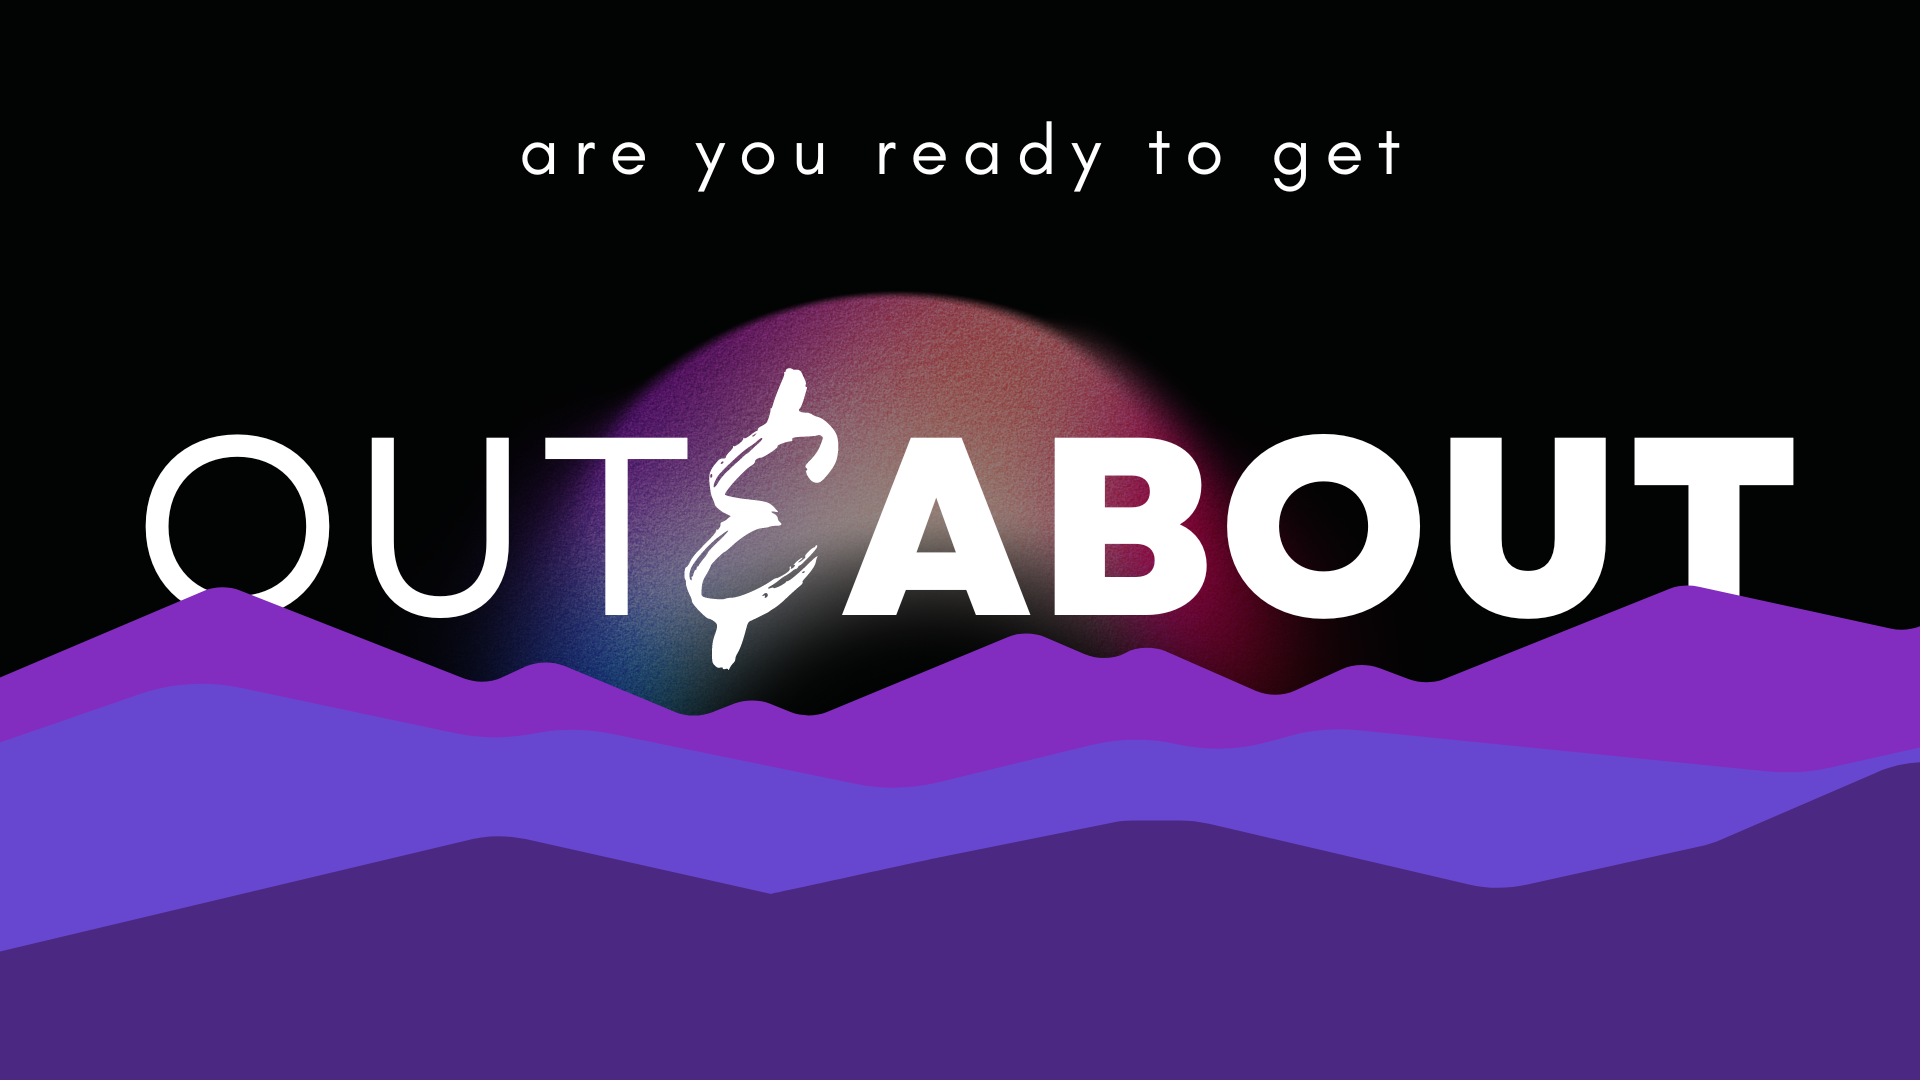
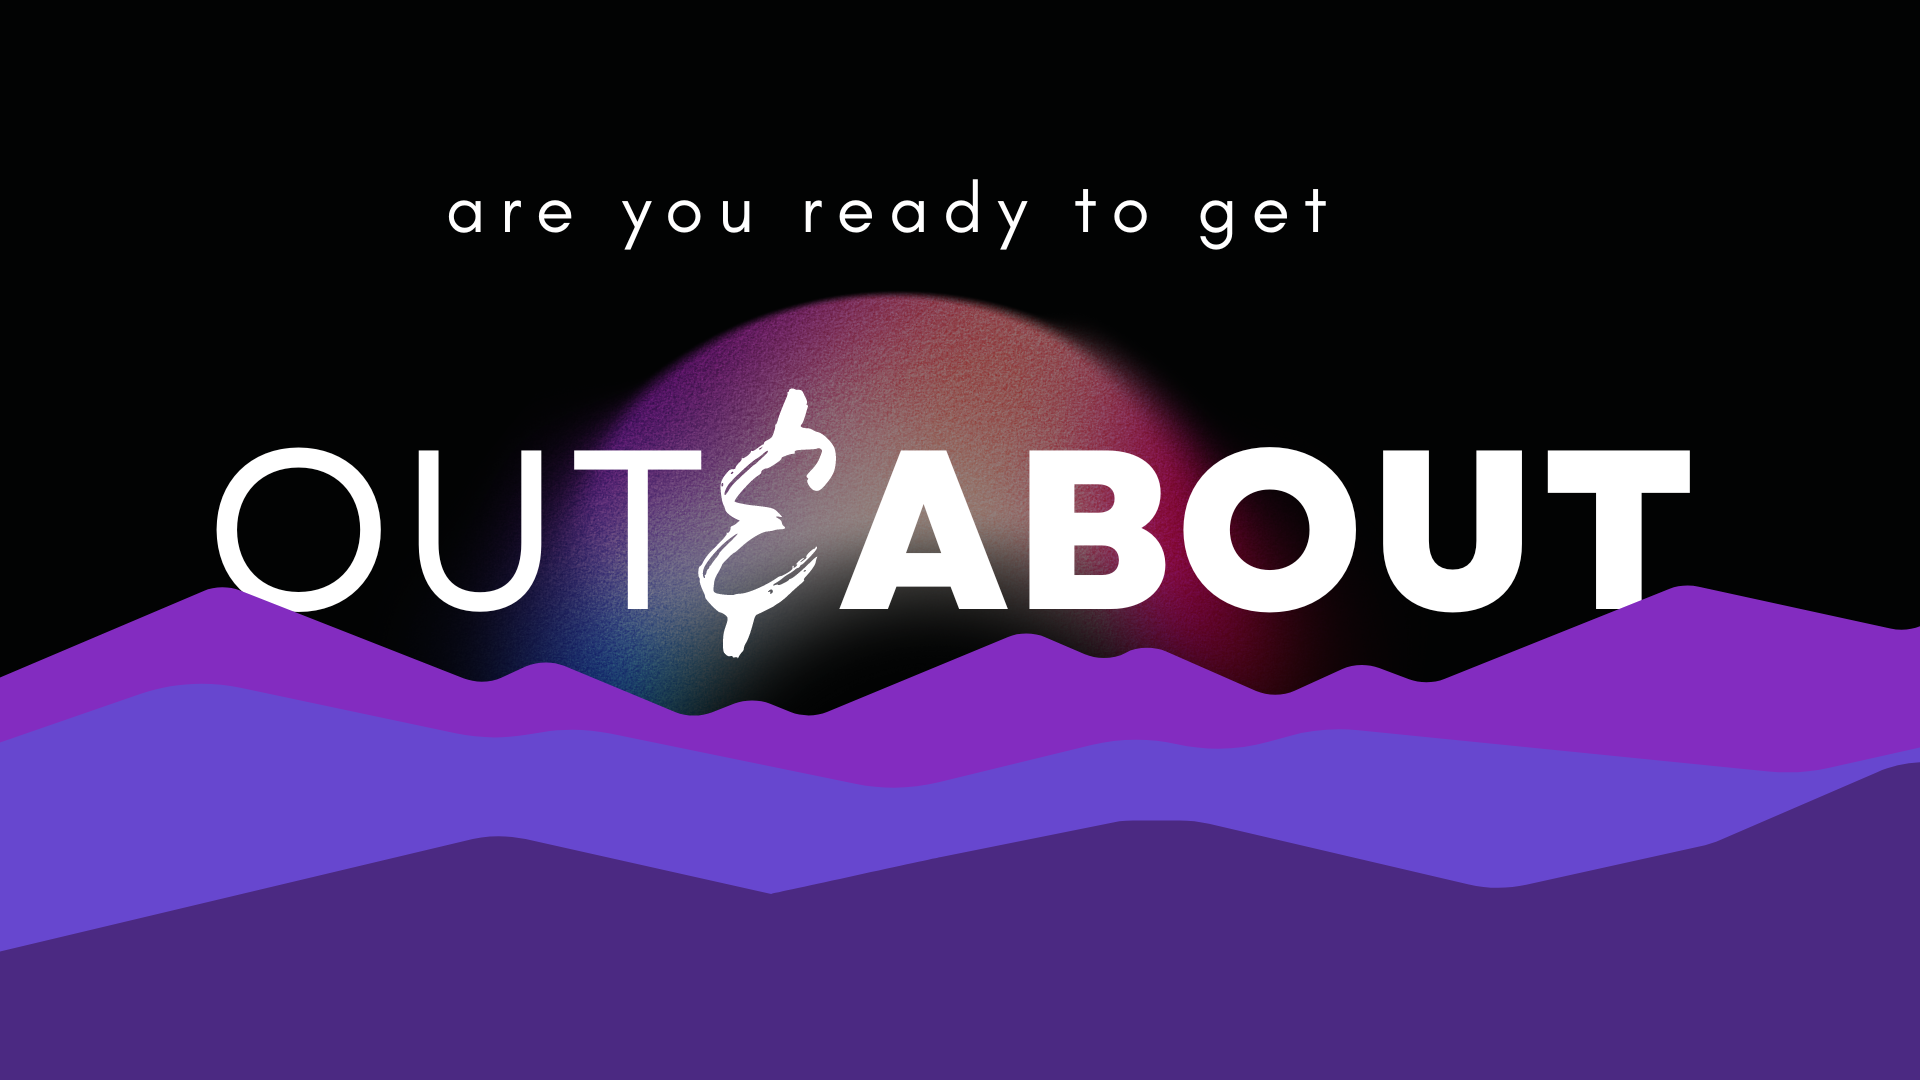
landing page designed

diff --git a/client/src/components/Home.js b/client/src/components/Home.js
@@ -1,18 +1,30 @@
 import React from "react";
+import { ThemeProvider } from "@mui/material/styles";
+import { Button } from "@mui/material";
+import inputTheme from "./../style/theme";
 
-import MandurahMap from "./maps/mandurah-forshore";
-import UwaMap from "./maps/uwa-grad";
-import Hero from "./Hero";
-import heroImg from "../assets/hero.png";
+const mainStyle = {
+  width: "100vw",
+};
+
+const btnStyles = {
+  marginBottom: "45px",
+  backgroundColor: "white",
+  color: "#981FC2",
+  width: "40vw",
+  height: "7vh",
+};
 
 const Home = () => {
   return (
-    <main>
-      <div className="flex-row justify-center">
-        <div className="col-12 col-md-8">
-          <Hero />
+    <main style={mainStyle}>
+      <ThemeProvider theme={inputTheme}>
+        <div className="hero hero-image">
+          <Button size="large" style={btnStyles} variant="contained">
+            Sign up today!
+          </Button>
         </div>
-      </div>
+      </ThemeProvider>
     </main>
   );
 };

diff --git a/client/src/components/Hero.js b/client/src/components/Hero.js
@@ -1,26 +1,18 @@
 import React from "react";
-import { Button, Box, Card, CardMedia } from "@mui/material";
-import heroImg from "../assets/hero.png";
+import { Button} from "@mui/material";
 
-const styles = {
-  paperContainer: {
-    backgroundImage: `url(${heroImg})`,
-    backgroundRepeat: "no-repeat",
-    backgroundSize: "cover",
-    width: "1000",
-  },
+const btnStyles = {
+  marginBottom: "45px",
+  backgroundColor: "white",
+  color: "#981FC2"
 };
 
 const Hero = () => {
   return (
     <section>
-      <div>
-        <div style={styles.paperContainer}>
-          <Button color="primary" variant="contained">
+          <Button style={btnStyles } variant="contained">
             Sign up today!
           </Button>
-        </div>
-      </div>
     </section>
   );
 };

diff --git a/client/src/style/app.css b/client/src/style/app.css
@@ -4,3 +4,27 @@
     height: 400px;
   }
   
+
+.hero{
+  display:flex;
+  align-items: flex-end;
+  justify-content: space-around;
+  flex-wrap: wrap;
+  margin-bottom: 1rem;
+  height: 80vh;
+  margin-left: 0 !important;
+}
+
+.hero-image{
+  background-image: url("./../assets/hero2.png") ;
+  background-size: cover;
+  background-position: center 40%;
+}
+
+@media (max-width:950px){
+  .hero-image{
+    background-image: url("./../assets/heroMini.png") ;
+    background-size: cover;
+    background-position: center 40%;
+  }
+}

diff --git a/client/src/App.js b/client/src/App.js
@@ -19,6 +19,7 @@ import Home from "./components/Home";
 import Header from "./components/Header";
 import Footer from "./components/Footer";
 import background from "./assets/bg.png";
+import landing from "./assets/hero.png";
 
 // Construct our main GraphQL API endpoint
 const httpLink = createHttpLink({
@@ -44,6 +45,7 @@ export default function App() {
   const bgStyle = {
     backgroundImage: `url(${background})`,
     backgroundSize: "cover",
+    backgroundPosition: "center",
   };
 
   return (

diff --git a/client/src/index.css b/client/src/index.css
@@ -1186,8 +1186,8 @@ label form [type='radio'] {
 }
 
 .container {
-  width: 85%;
-  max-width: 1200px;
+  /* width: 85%;
+  max-width: 1200px; */
   margin-left: auto;
   margin-right: auto;
 }
